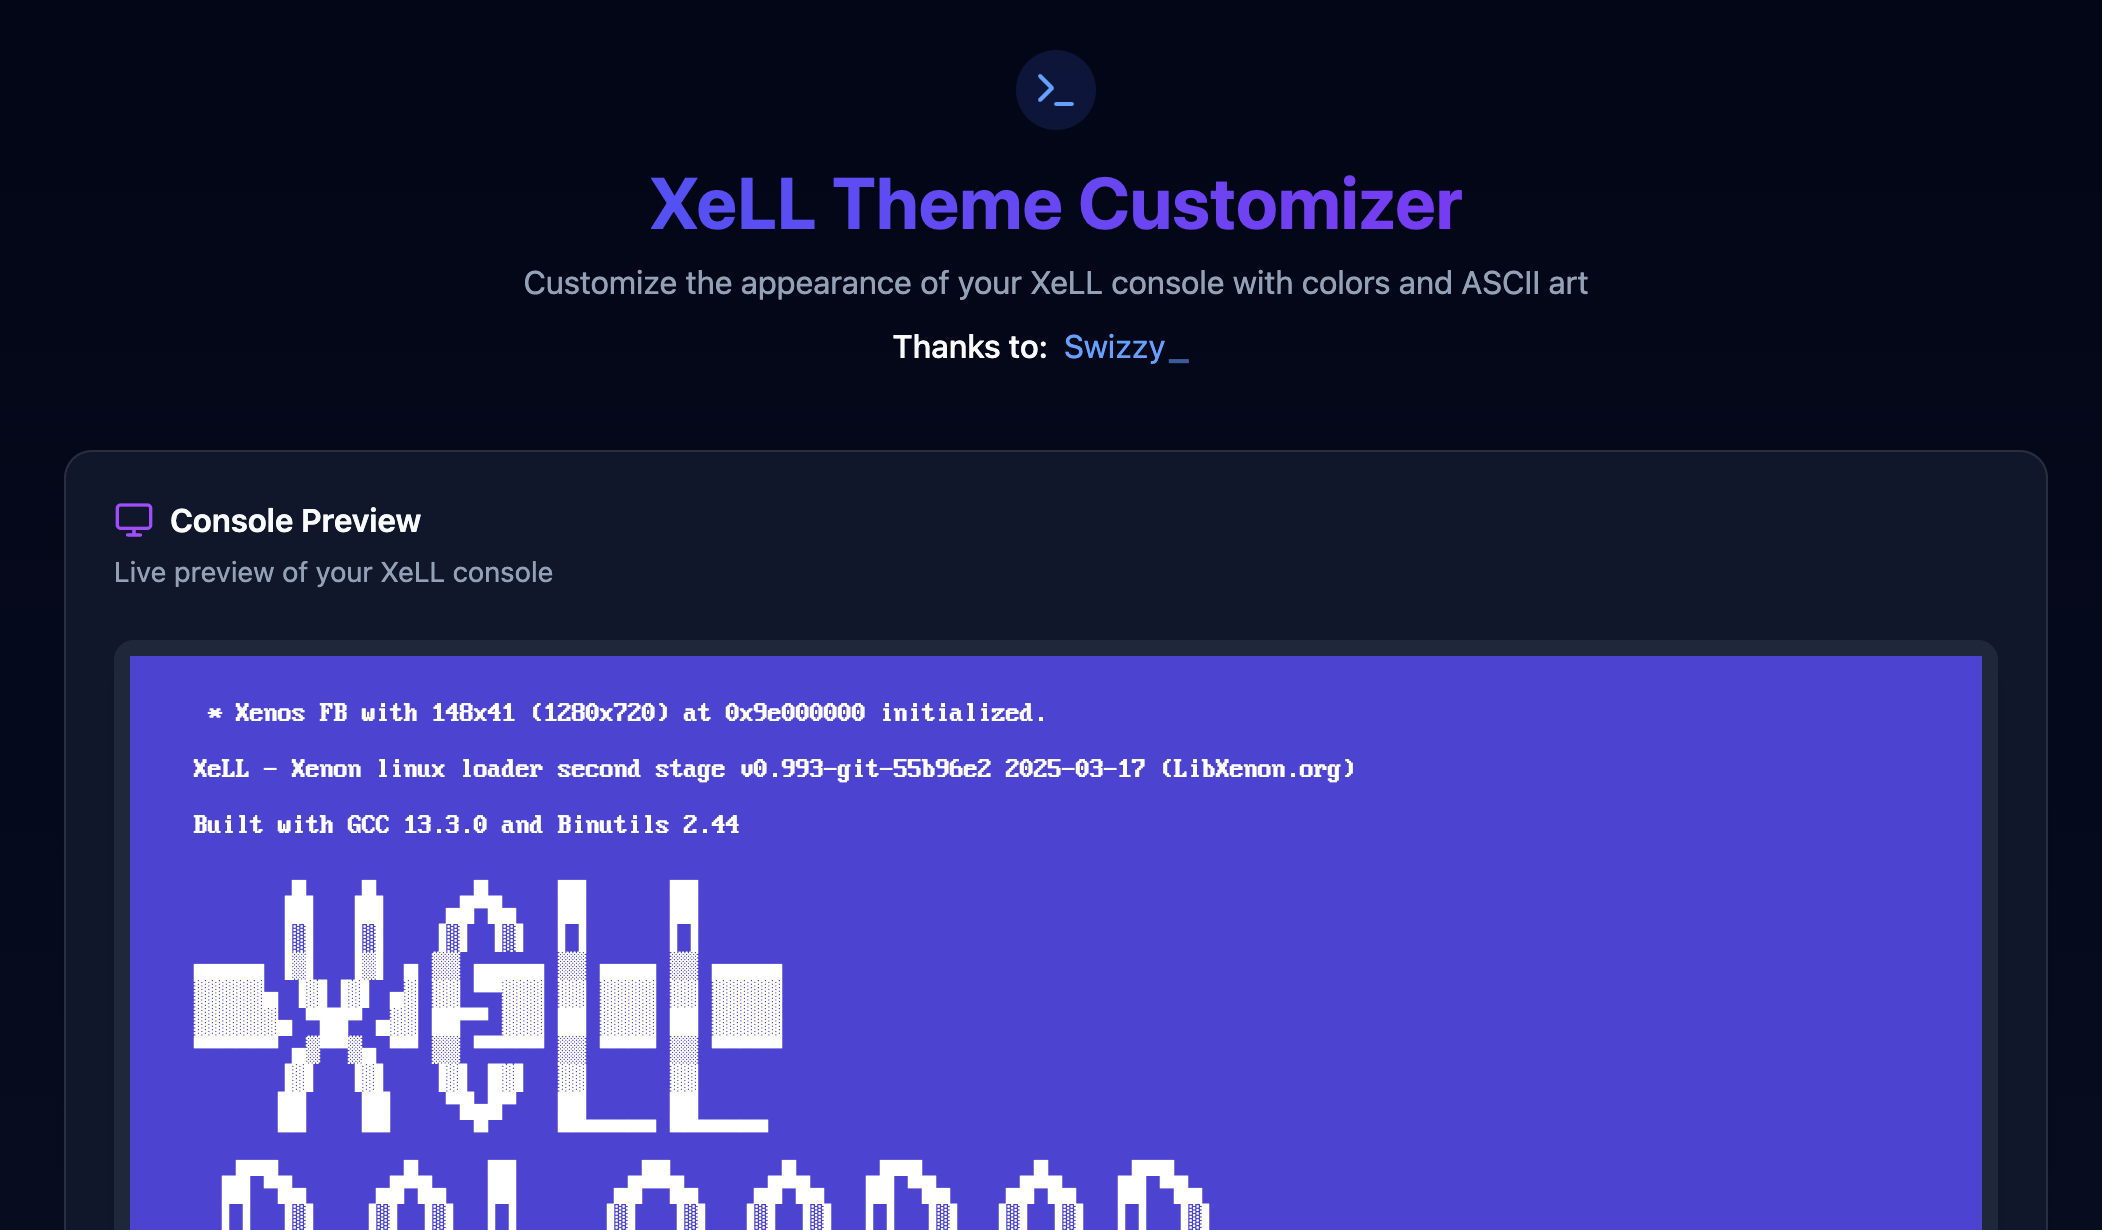
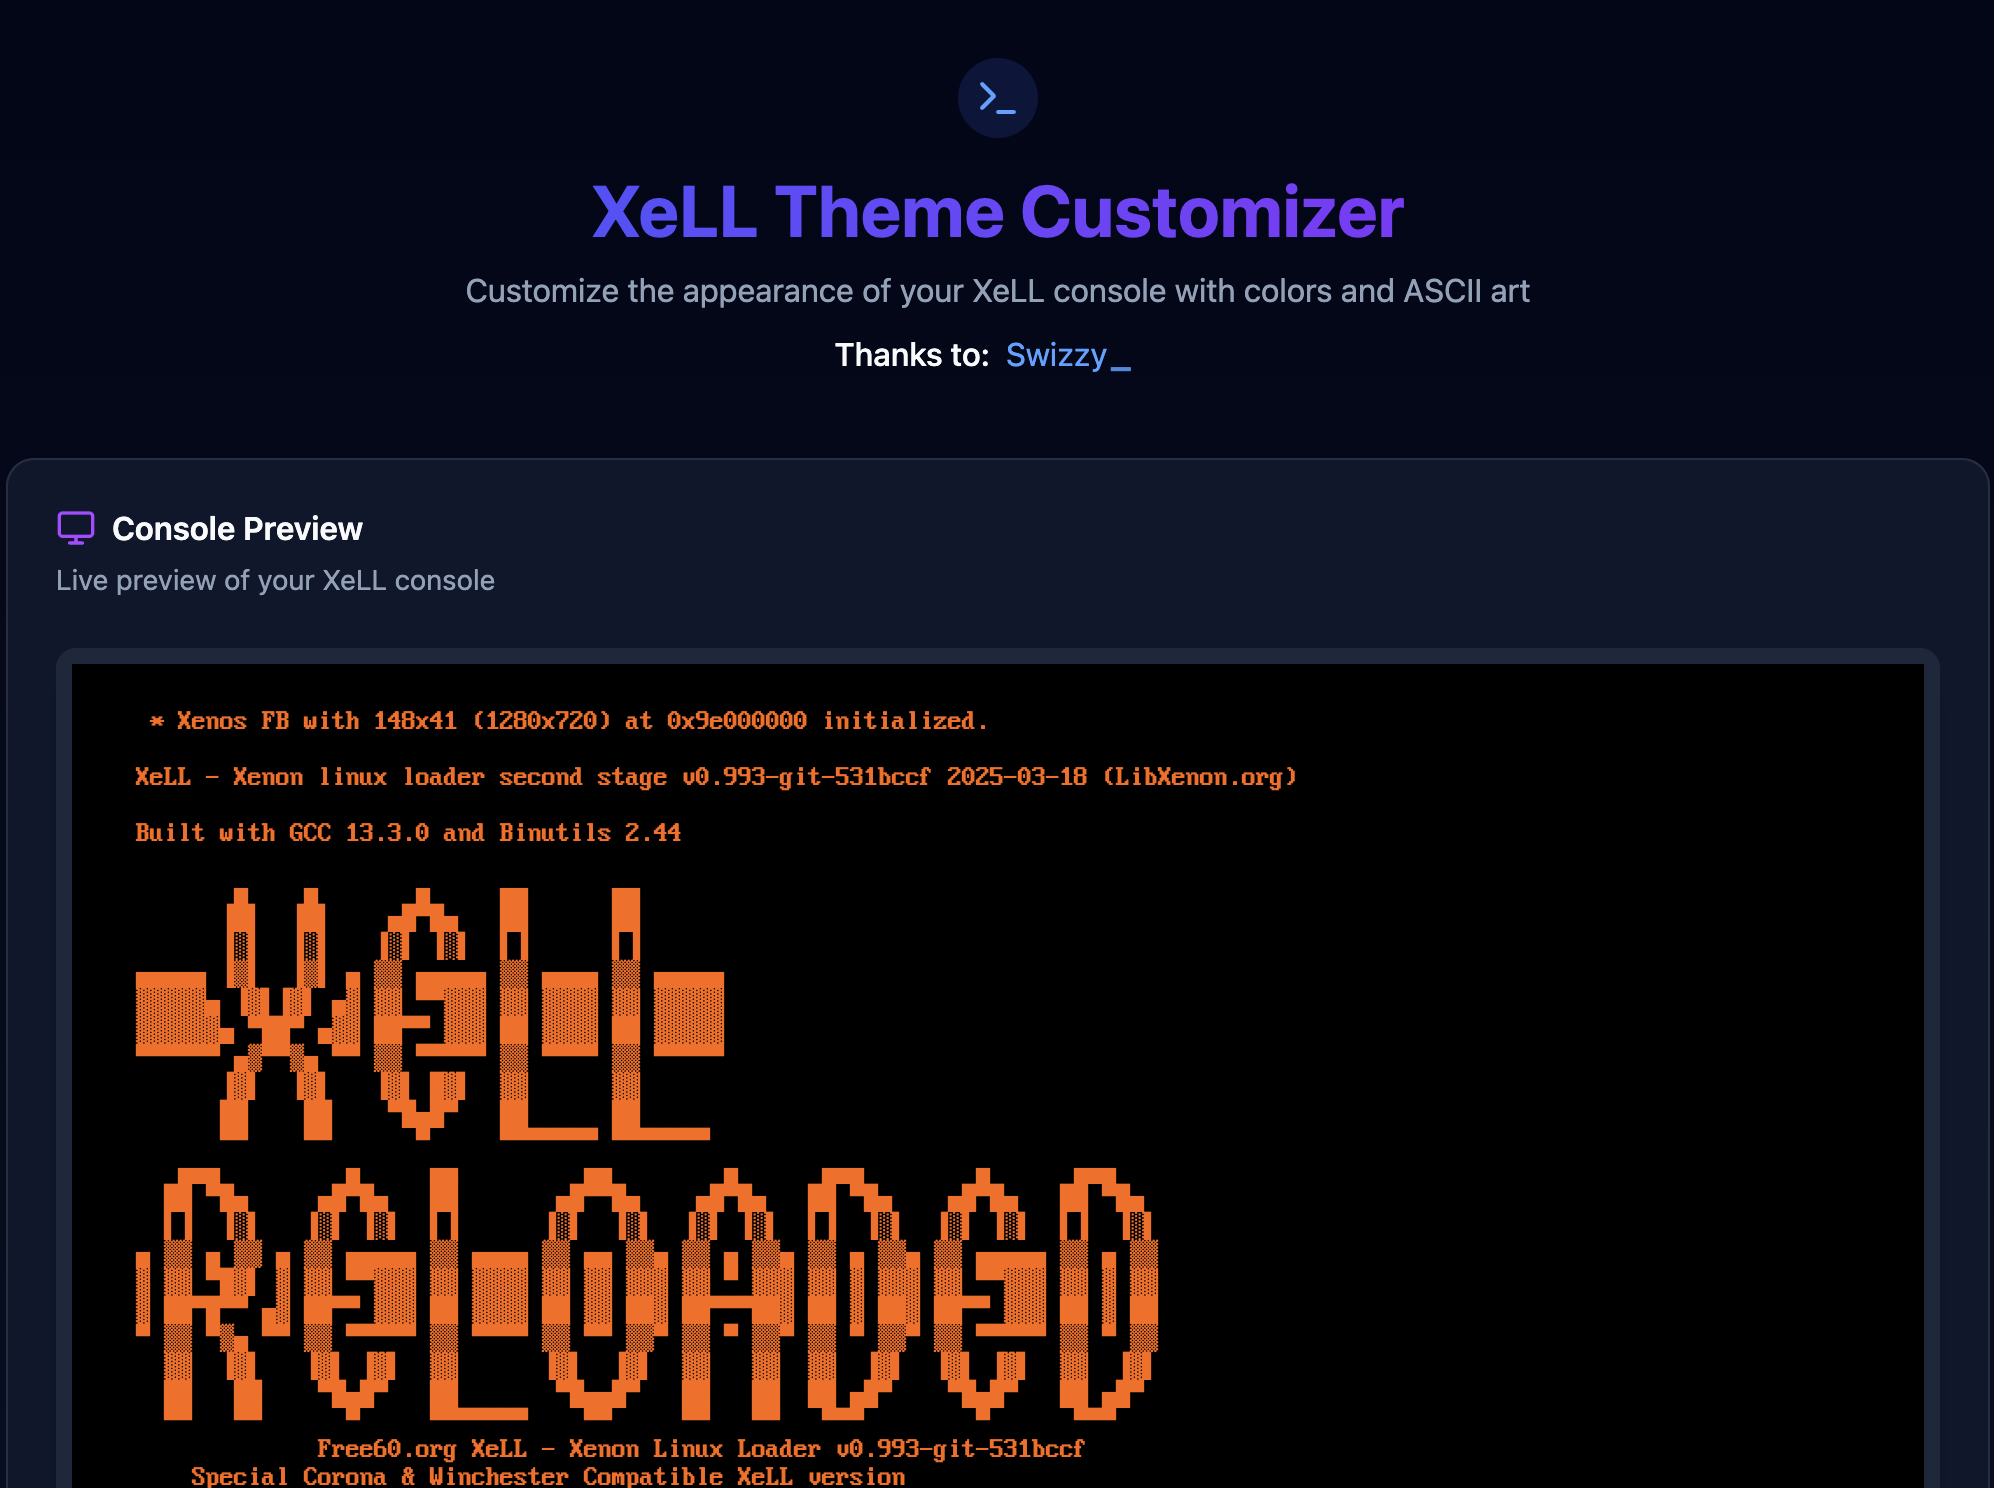
chore: update asciitail to match Swizzy's changes

diff --git a/src/xell-customizer.tsx b/src/xell-customizer.tsx
@@ -66,7 +66,7 @@ const free60ASCII = `
  #  ########  ########   ####   #####     #####      ##
  ######################################################`;
 
-const gitData = "v0.993-git-55b96e2";
+const gitData = "v0.993-git-531bccf";
 
 const outputHeader = `
  * Xenos FB with 148x41 (1280x720) at 0x9e000000 initialized.
@@ -78,7 +78,7 @@ Built with GCC 13.3.0 and Binutils 2.44
 
 const outputFooter = `
              Free60.org XeLL - Xenon Linux Loader ${gitData}
-                 Special Corona Compatible XeLL version
+    Special Corona & Winchester Compatible XeLL version
 
  * nand init
  * network init
